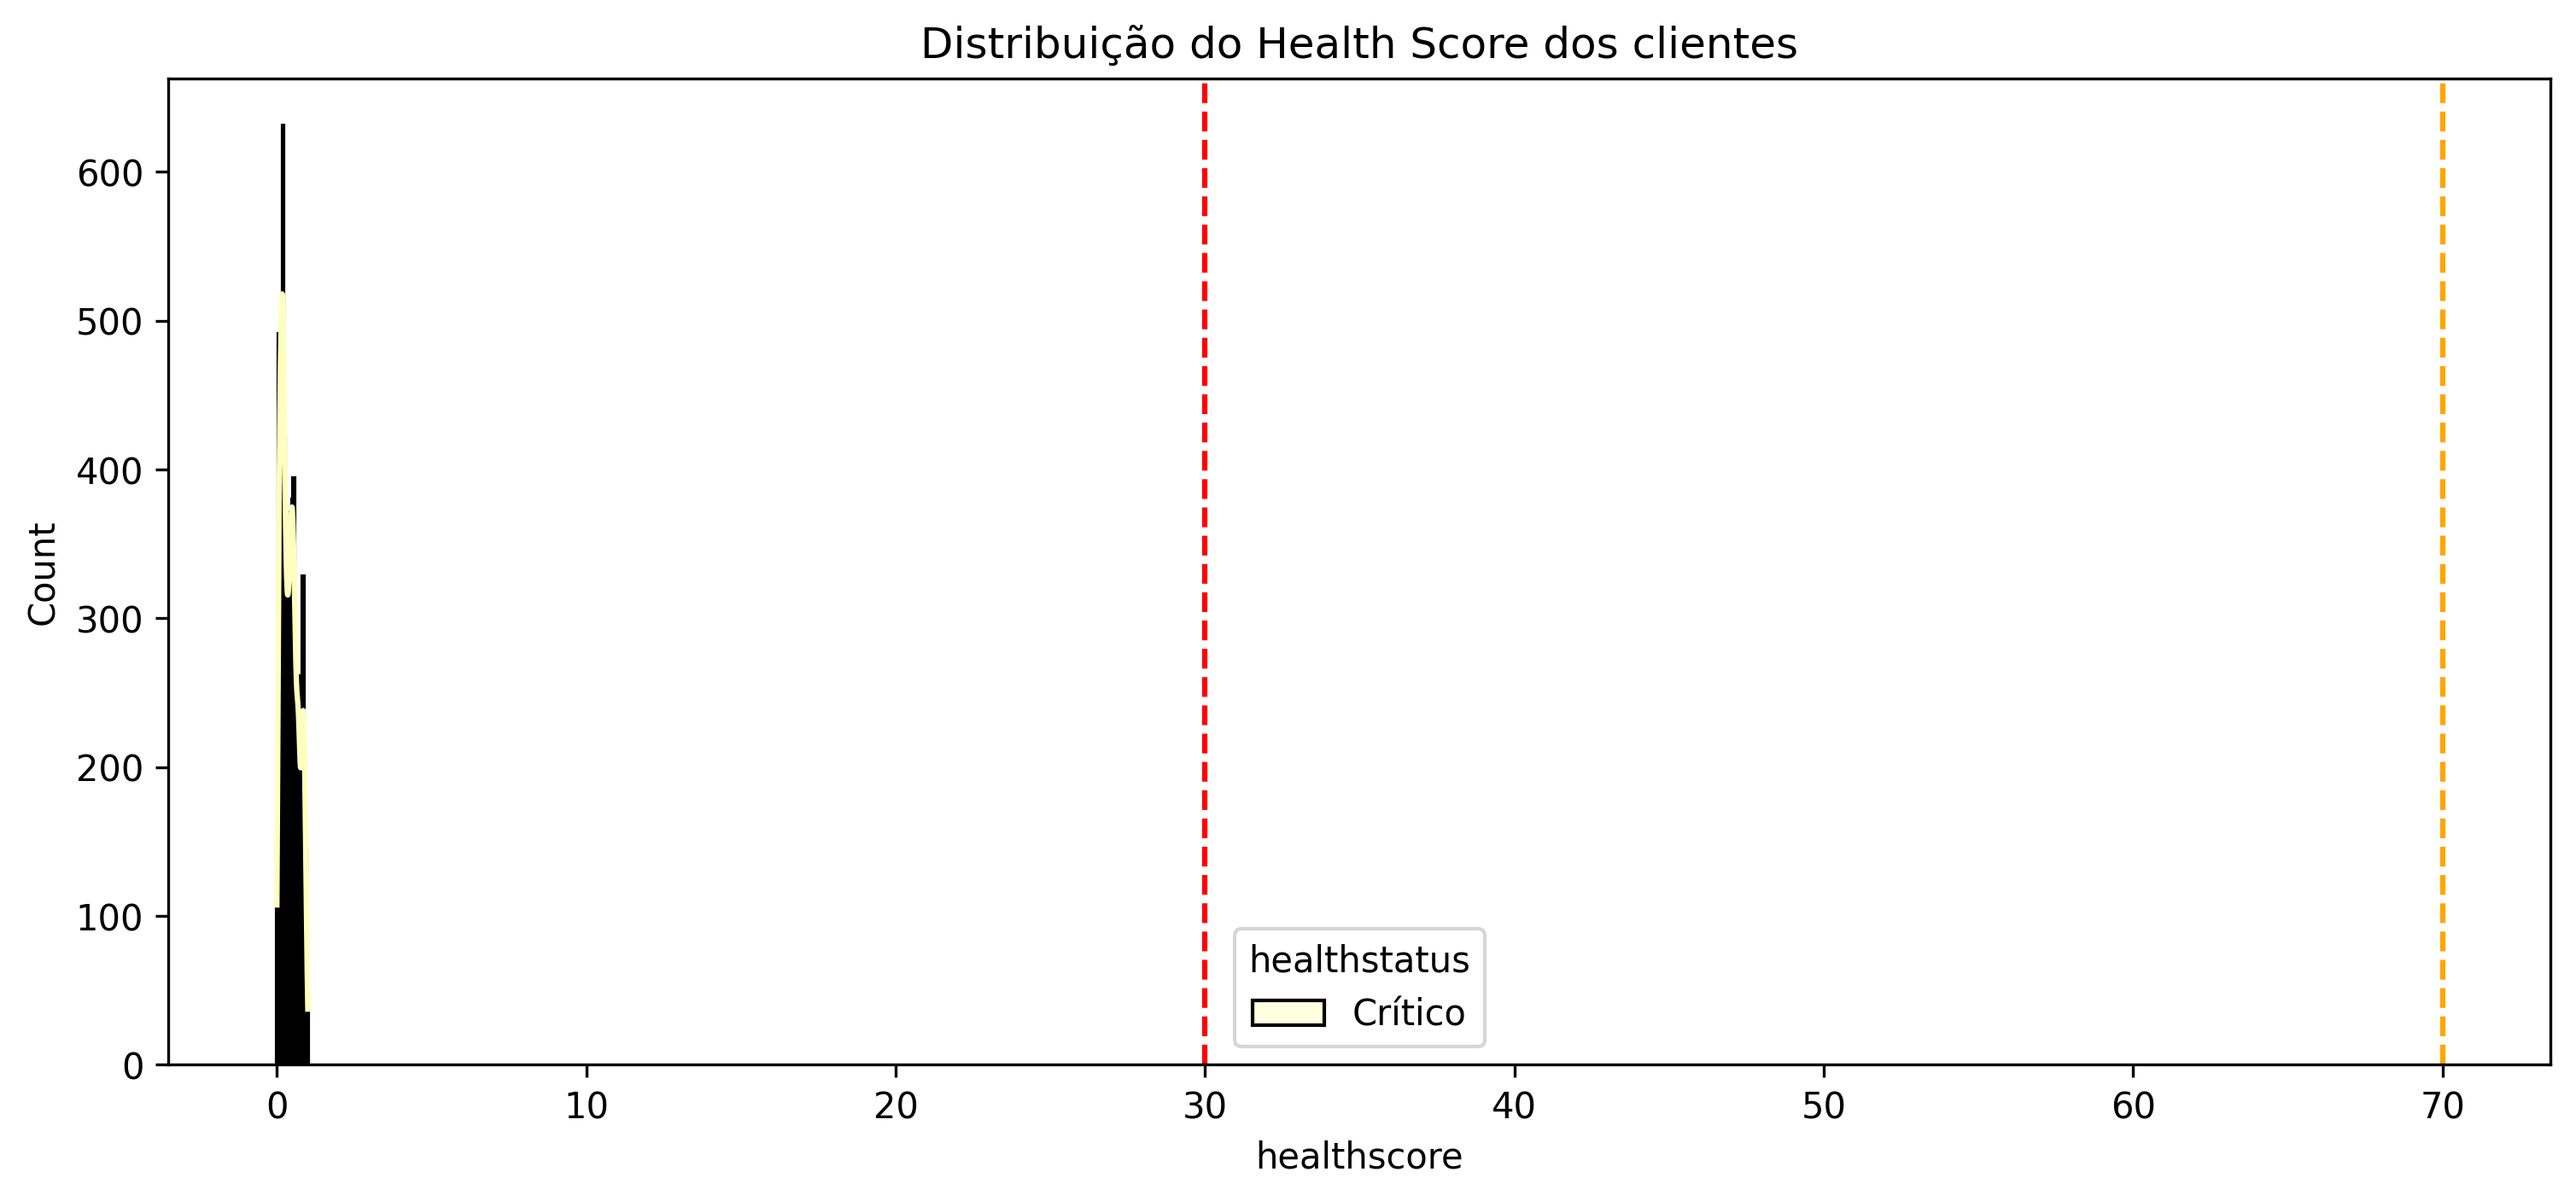
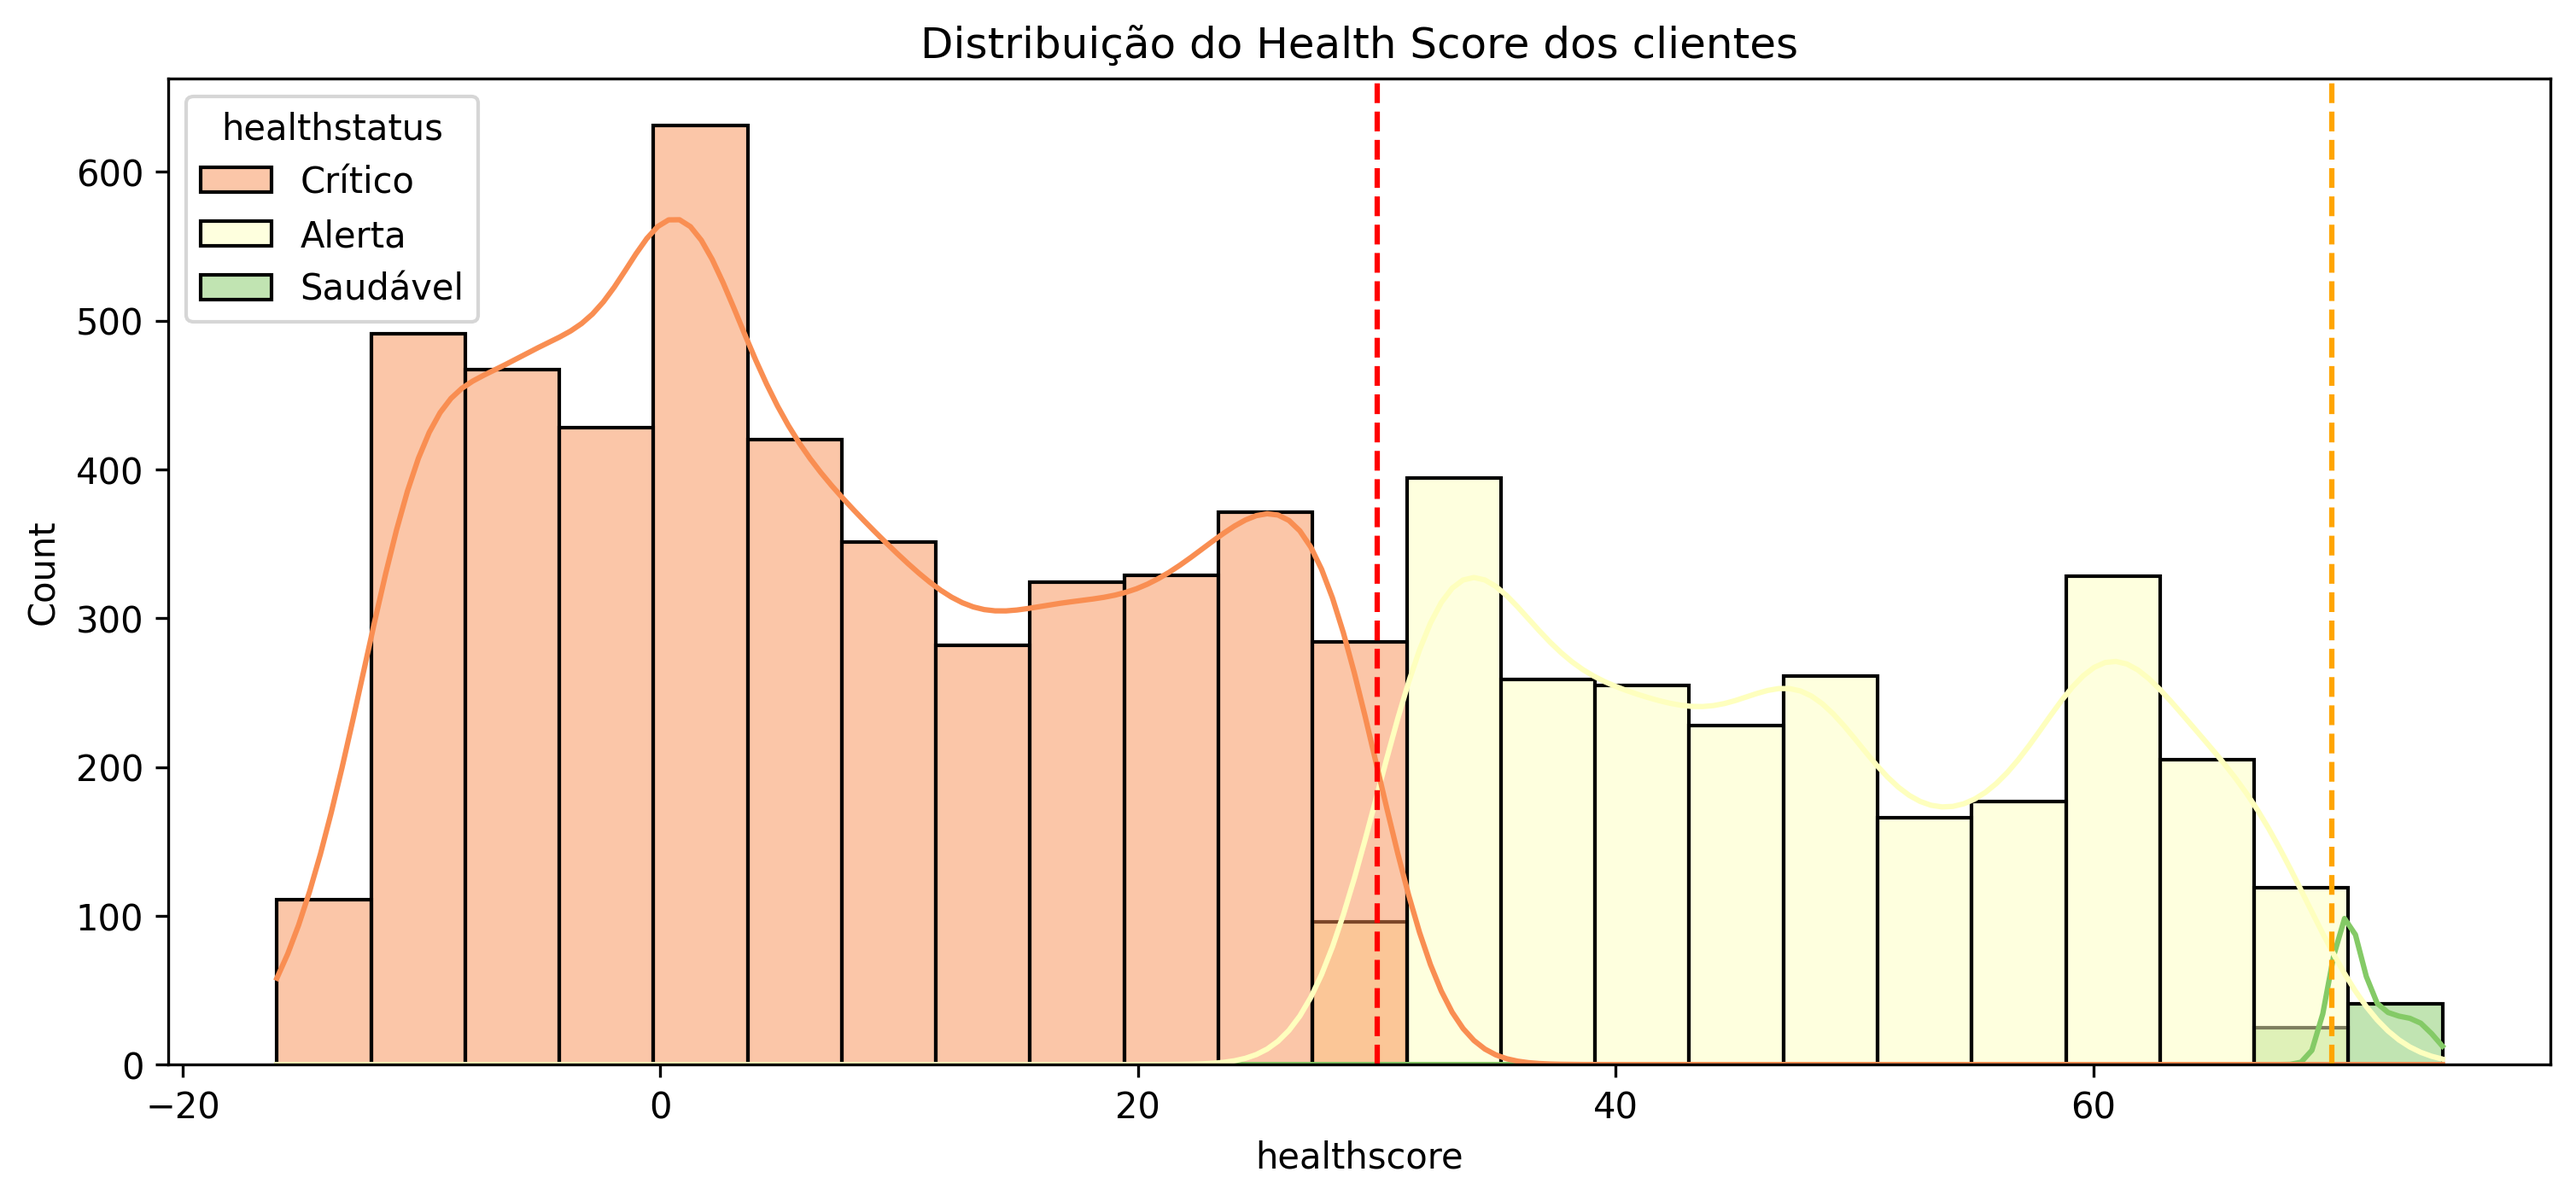
ajuste do readme

diff --git a/readme.md b/readme.md
@@ -61,7 +61,24 @@ $$HealthScore = (Tenure \cdot 0.5) + (SupportUsage \cdot 0.3) - (MonthlyCharges 
   <img src="./img/graficol2.png" width="800px" alt="Impacto Financeiro">
 </p>
 
-### 4. Impacto Financeiro & Business Case (ROI)
+## 4. 📊 Avaliação de Performance: Matriz de Confusão
+
+Para validar a precisão da nossa inteligência preditiva, utilizamos a **Matriz de Confusão**. Esta ferramenta é essencial para entender como o modelo toma decisões e onde ele concentra seus acertos.
+
+### Análise Técnica dos Resultados:
+
+* **Recall de 70% (True Positives):** O modelo identificou com sucesso a grande maioria dos clientes que realmente iriam cancelar. Isso significa que, em 70% das vezes que um churn ia acontecer, o nosso sistema disparou um alerta.
+* **Gestão de Falsos Positivos:** O modelo apresenta alguns casos onde previu churn para clientes que acabaram ficando. Do ponto de vista de negócio, este é um **"erro aceitável"**, pois o custo de uma ação de retenção preventiva é muito menor do que o prejuízo de perder um cliente (LTV).
+* **Foco em Falsos Negativos:** Nossa prioridade foi reduzir ao máximo este quadrante, garantindo que o menor número possível de clientes "fuja" sem que o time de Sucesso do Cliente seja notificado.
+
+<p align="center">
+  <img src="./img/graficol4.png" width="600px" alt="Matriz de Confusão">
+</p>
+
+> **Insight do Desenvolvedor:** A matriz prova que o modelo não está apenas "chutando", mas aprendendo padrões reais de comportamento. Ela serve como a base de confiança para o investimento financeiro detalhado na seção seguinte.
+
+
+### 5. Impacto Financeiro & Business Case (ROI)
 Nesta etapa final, traduzimos a predição técnica em lucro real. Em vez de apenas identificar o risco, calculamos a viabilidade financeira da estratégia de retenção para o time de Sucesso do Cliente.
 
 **Análise de Eficiência Financeira:**
